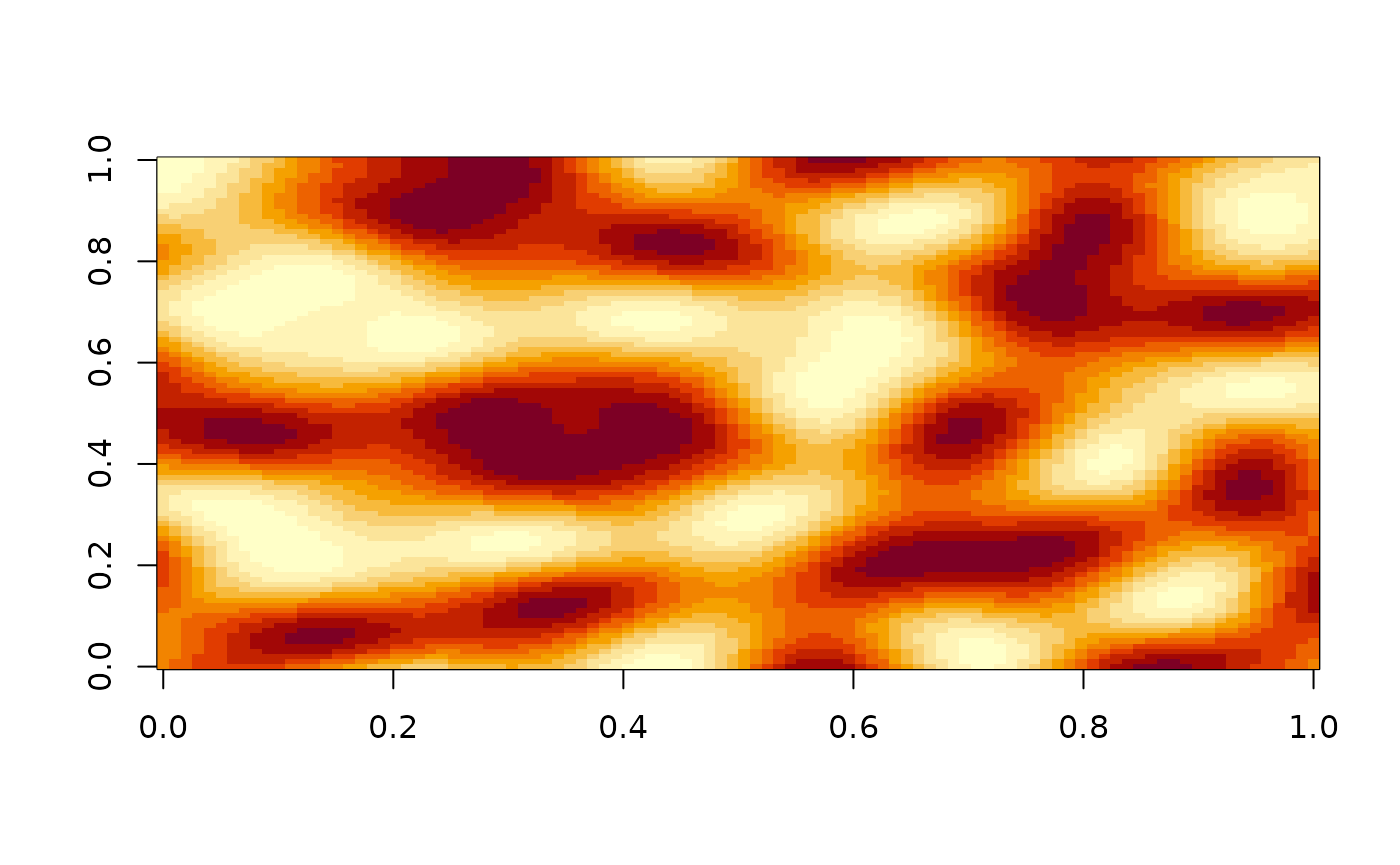
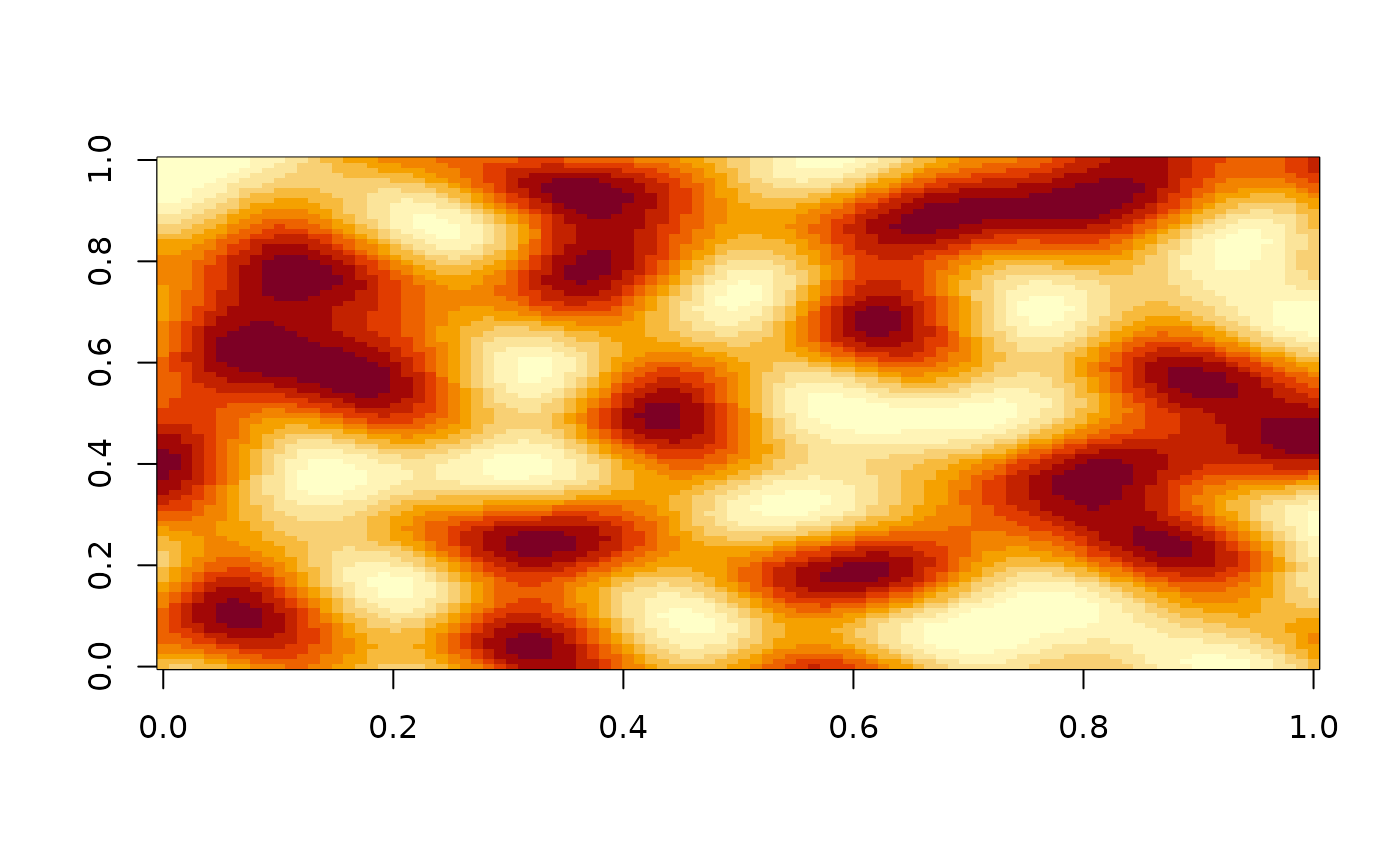
Deploying to gh-pages from @ pepijn-devries/opensimplex2@a061dff66661f1abd179566d9fc36620cbd74620 🚀

diff --git a/reference/simplex4d.html b/reference/simplex4d.html
@@ -1,5 +1,5 @@
 <!DOCTYPE html>
-<!-- Generated by pkgdown: do not edit by hand --><html lang="en-GB"><head><meta http-equiv="Content-Type" content="text/html; charset=UTF-8"><meta charset="utf-8"><meta http-equiv="X-UA-Compatible" content="IE=edge"><meta name="viewport" content="width=device-width, initial-scale=1, shrink-to-fit=no"><title>TODO — simplex3d • opensimplex2</title><script src="../deps/jquery-3.6.0/jquery-3.6.0.min.js"></script><meta name="viewport" content="width=device-width, initial-scale=1, shrink-to-fit=no"><link href="../deps/bootstrap-5.3.1/bootstrap.min.css" rel="stylesheet"><script src="../deps/bootstrap-5.3.1/bootstrap.bundle.min.js"></script><link href="../deps/font-awesome-6.5.2/css/all.min.css" rel="stylesheet"><link href="../deps/font-awesome-6.5.2/css/v4-shims.min.css" rel="stylesheet"><script src="../deps/headroom-0.11.0/headroom.min.js"></script><script src="../deps/headroom-0.11.0/jQuery.headroom.min.js"></script><script src="../deps/bootstrap-toc-1.0.1/bootstrap-toc.min.js"></script><script src="../deps/clipboard.js-2.0.11/clipboard.min.js"></script><script src="../deps/search-1.0.0/autocomplete.jquery.min.js"></script><script src="../deps/search-1.0.0/fuse.min.js"></script><script src="../deps/search-1.0.0/mark.min.js"></script><!-- pkgdown --><script src="../pkgdown.js"></script><meta property="og:title" content="TODO — simplex3d"><meta name="description" content="TODO"><meta property="og:description" content="TODO"></head><body>
+<!-- Generated by pkgdown: do not edit by hand --><html lang="en-GB"><head><meta http-equiv="Content-Type" content="text/html; charset=UTF-8"><meta charset="utf-8"><meta http-equiv="X-UA-Compatible" content="IE=edge"><meta name="viewport" content="width=device-width, initial-scale=1, shrink-to-fit=no"><title>TODO — simplex4d • opensimplex2</title><script src="../deps/jquery-3.6.0/jquery-3.6.0.min.js"></script><meta name="viewport" content="width=device-width, initial-scale=1, shrink-to-fit=no"><link href="../deps/bootstrap-5.3.1/bootstrap.min.css" rel="stylesheet"><script src="../deps/bootstrap-5.3.1/bootstrap.bundle.min.js"></script><link href="../deps/font-awesome-6.5.2/css/all.min.css" rel="stylesheet"><link href="../deps/font-awesome-6.5.2/css/v4-shims.min.css" rel="stylesheet"><script src="../deps/headroom-0.11.0/headroom.min.js"></script><script src="../deps/headroom-0.11.0/jQuery.headroom.min.js"></script><script src="../deps/bootstrap-toc-1.0.1/bootstrap-toc.min.js"></script><script src="../deps/clipboard.js-2.0.11/clipboard.min.js"></script><script src="../deps/search-1.0.0/autocomplete.jquery.min.js"></script><script src="../deps/search-1.0.0/fuse.min.js"></script><script src="../deps/search-1.0.0/mark.min.js"></script><!-- pkgdown --><script src="../pkgdown.js"></script><meta property="og:title" content="TODO — simplex4d"><meta name="description" content="TODO"><meta property="og:description" content="TODO"></head><body>
     <a href="#main" class="visually-hidden-focusable">Skip to contents</a>
 
 
@@ -33,7 +33,7 @@
 
       <h1>TODO</h1>
       <small class="dont-index">Source: <a href="https://github.com/pepijn-devries/opensimplex2/blob/main/R/simplex.R" class="external-link"><code>R/simplex.R</code></a></small>
-      <div class="d-none name"><code>simplex3d.Rd</code></div>
+      <div class="d-none name"><code>simplex4d.Rd</code></div>
     </div>
 
     <div class="ref-description section level2">
@@ -42,14 +42,14 @@
 
     <div class="section level2">
     <h2 id="ref-usage">Usage<a class="anchor" aria-label="anchor" href="#ref-usage"></a></h2>
-    <div class="sourceCode"><pre class="sourceCode r"><code><span><span class="fu">simplex3d</span><span class="op">(</span><span class="va">width</span>, <span class="va">height</span>, <span class="va">depth</span>, frequency <span class="op">=</span> <span class="fl">1</span><span class="op">)</span></span></code></pre></div>
+    <div class="sourceCode"><pre class="sourceCode r"><code><span><span class="fu">simplex4d</span><span class="op">(</span><span class="va">width</span>, <span class="va">height</span>, <span class="va">depth</span>, <span class="va">slice</span>, frequency <span class="op">=</span> <span class="fl">1</span><span class="op">)</span></span></code></pre></div>
     </div>
 
     <div class="section level2">
     <h2 id="arguments">Arguments<a class="anchor" aria-label="anchor" href="#arguments"></a></h2>
 
 
-<dl><dt id="arg-width-height-depth">width, height, depth<a class="anchor" aria-label="anchor" href="#arg-width-height-depth"></a></dt>
+<dl><dt id="arg-width-height-depth-slice">width, height, depth, slice<a class="anchor" aria-label="anchor" href="#arg-width-height-depth-slice"></a></dt>
 <dd><p>TODO</p></dd>
 
 
@@ -64,9 +64,9 @@
 
     <div class="section level2">
     <h2 id="ref-examples">Examples<a class="anchor" aria-label="anchor" href="#ref-examples"></a></h2>
-    <div class="sourceCode"><pre class="sourceCode r"><code><span class="r-in"><span><span class="va">mat</span> <span class="op">&lt;-</span> <span class="fu">simplex3d</span><span class="op">(</span><span class="fl">100</span>, <span class="fl">100</span>, <span class="fl">100</span><span class="op">)</span></span></span>
-<span class="r-in"><span><span class="fu"><a href="https://rdrr.io/r/graphics/image.html" class="external-link">image</a></span><span class="op">(</span><span class="va">mat</span><span class="op">[</span>,,<span class="fl">1</span><span class="op">]</span><span class="op">)</span></span></span>
-<span class="r-plt img"><img src="simplex3d-1.png" alt="" width="700" height="433"></span>
+    <div class="sourceCode"><pre class="sourceCode r"><code><span class="r-in"><span><span class="va">mat</span> <span class="op">&lt;-</span> <span class="fu">simplex4d</span><span class="op">(</span><span class="fl">25</span>, <span class="fl">25</span>, <span class="fl">25</span>, <span class="fl">25</span><span class="op">)</span></span></span>
+<span class="r-in"><span><span class="fu"><a href="https://rdrr.io/r/graphics/image.html" class="external-link">image</a></span><span class="op">(</span><span class="va">mat</span><span class="op">[</span>,,<span class="fl">1</span>,<span class="fl">1</span><span class="op">]</span><span class="op">)</span></span></span>
+<span class="r-plt img"><img src="simplex4d-1.png" alt="" width="700" height="433"></span>
 </code></pre></div>
     </div>
   </main><aside class="col-md-3"><nav id="toc" aria-label="Table of contents"><h2>On this page</h2>

diff --git a/reference/simplex2d.html b/reference/simplex2d.html
@@ -56,10 +56,6 @@
 <dt id="arg-frequency">frequency<a class="anchor" aria-label="anchor" href="#arg-frequency"></a></dt>
 <dd><p>TODO</p></dd>
 
-
-<dt id="arg-seed">seed<a class="anchor" aria-label="anchor" href="#arg-seed"></a></dt>
-<dd><p>TODO</p></dd>
-
 </dl></div>
     <div class="section level2">
     <h2 id="value">Value<a class="anchor" aria-label="anchor" href="#value"></a></h2>

diff --git a/reference/index.html b/reference/index.html
@@ -57,6 +57,13 @@
 
         </dt>
         <dd>TODO</dd>
+
+        <dt>
+
+          <code><a href="simplex4d.html">simplex4d()</a></code>
+
+        </dt>
+        <dd>TODO</dd>
       </dl></div>
   </main></div>
 

diff --git a/reference/simplex3d.md b/reference/simplex3d.md
@@ -5,7 +5,7 @@ TODO
 ## Usage
 
 ``` r
-simplex3d(width, height, depth, frequency = 1, seed = 0L)
+simplex3d(width, height, depth, frequency = 1)
 ```
 
 ## Arguments
@@ -15,10 +15,6 @@ simplex3d(width, height, depth, frequency = 1, seed = 0L)
   TODO
 
 - frequency:
-
-  TODO
-
-- seed:
 
   TODO
 

diff --git a/reference/simplex4d.md b/reference/simplex4d.md
@@ -1,0 +1,30 @@
+# TODO
+
+TODO
+
+## Usage
+
+``` r
+simplex4d(width, height, depth, slice, frequency = 1)
+```
+
+## Arguments
+
+- width, height, depth, slice:
+
+  TODO
+
+- frequency:
+
+  TODO
+
+## Value
+
+TODO
+
+## Examples
+
+``` r
+mat <- simplex4d(25, 25, 25, 25)
+image(mat[,,1,1])
+```

diff --git a/reference/index.md b/reference/index.md
@@ -6,3 +6,5 @@
   : TODO
 - [`simplex3d()`](https://pepijn-devries.github.io/opensimplex2/reference/simplex3d.md)
   : TODO
+- [`simplex4d()`](https://pepijn-devries.github.io/opensimplex2/reference/simplex4d.md)
+  : TODO

diff --git a/reference/simplex2d.md b/reference/simplex2d.md
@@ -18,10 +18,6 @@ simplex2d(width, height, frequency = 1, seed = 0L)
 
   TODO
 
-- seed:
-
-  TODO
-
 ## Value
 
 TODO
